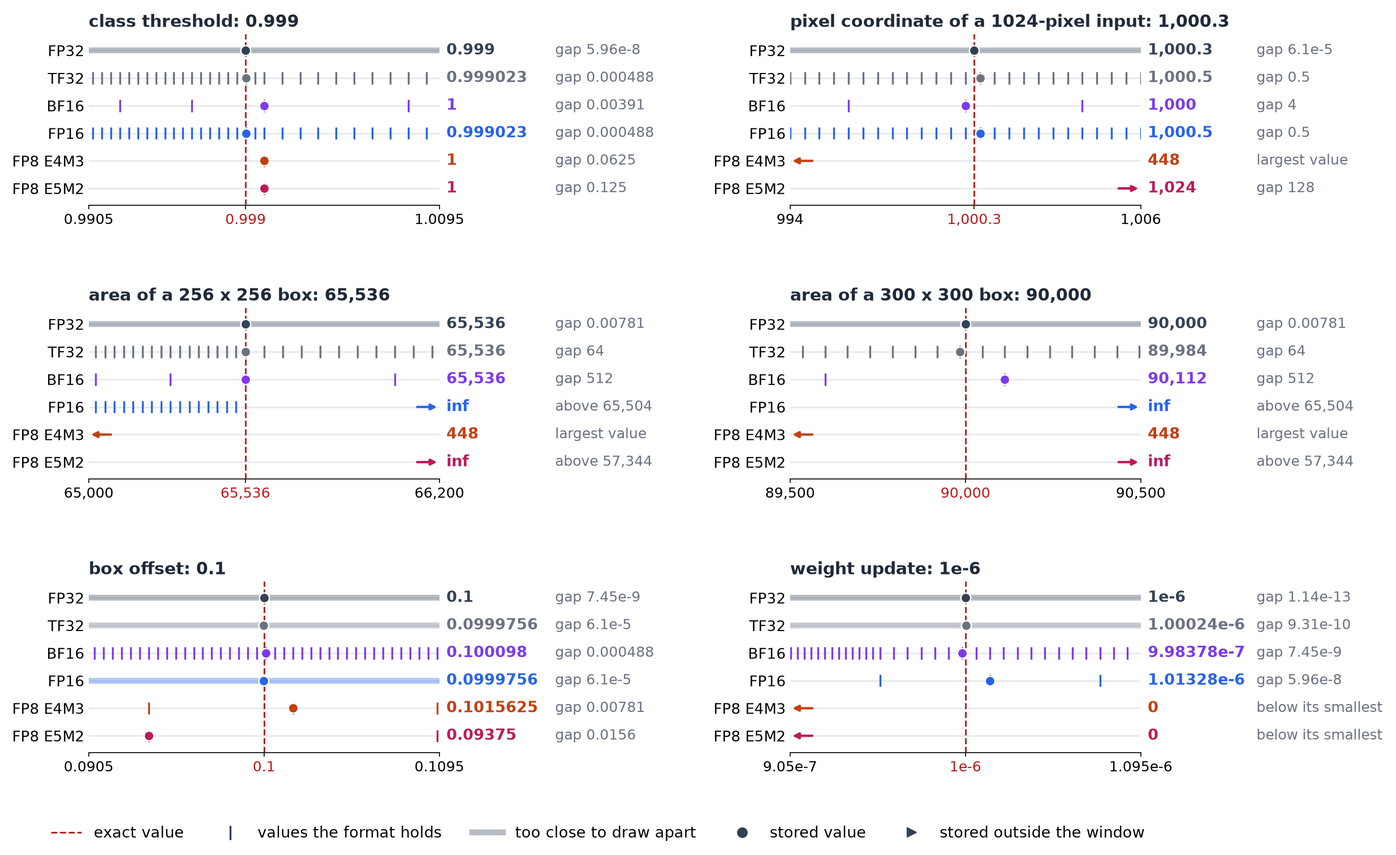
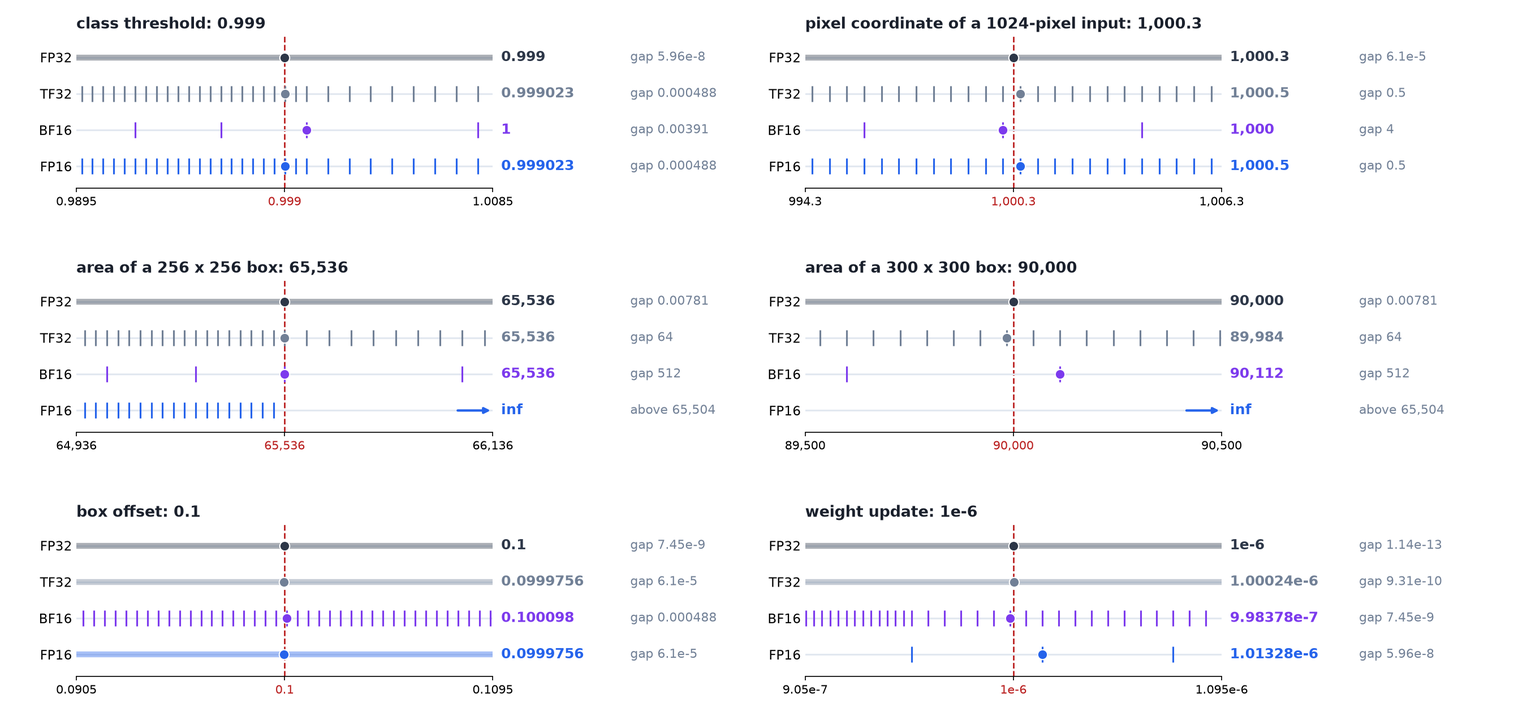
[DOCS] Reduce the README Number Formats subsection to the four formats the user cares about (2026-11-27): FP32, TF32, BF16 and FP16. Only The Same Values In Every Format is kept, its table without the FP8 columns; the floating-point explanation, the format list, the meaning of the numbers, the INT8/
Claude-Session: https://claude.ai/code/session_016uCt2UMaYr5m7swFibr1L4

diff --git a/documentation/presentation/figures/draw_number_formats.py b/documentation/presentation/figures/draw_number_formats.py
@@ -1,0 +1,241 @@
+"""
+Draws the two figures of the "Number Formats" subsection of the README Deployment section, for the four formats the
+repository uses (FP32, TF32, BF16, FP16): README/number_format_examples.png puts six typical values of the repository
+(a class threshold, a pixel coordinate, two box areas, a box offset and a weight update) on the number line of each
+format, and README/number_format_rounding.png draws the gap between neighbouring values of each format from 1e-6 to
+1e7. FP32, BF16 and FP16 values are rounded by PyTorch; TF32 rounds the FP32 mantissa to 10 bits, ties to even. From
+the repository root:
+
+    uv run python -m documentation.presentation.figures.draw_number_formats --output_folder README
+"""
+
+import argparse
+import math
+import matplotlib
+import numpy
+import torch
+
+matplotlib.use("Agg")
+
+import matplotlib.pyplot as plt
+
+from pathlib import Path
+
+from vision_training.utilities.os_utilities import format_path_link
+
+# Every format: its mantissa bits, its smallest normal exponent, its largest value and its colour
+FORMATS = {"FP32": {"mantissa_bits": 23, "minimum_exponent": -126, "largest_value": 3.4028234663852886e38,
+                    "colour": "#2d3748"},
+           "TF32": {"mantissa_bits": 10, "minimum_exponent": -126, "largest_value": 3.4028234663852886e38,
+                    "colour": "#718096"},
+           "BF16": {"mantissa_bits": 7, "minimum_exponent": -126, "largest_value": 3.3895313892515355e38,
+                    "colour": "#7c3aed"},
+           "FP16": {"mantissa_bits": 10, "minimum_exponent": -14, "largest_value": 65504.0, "colour": "#2563eb"}}
+
+# Every example: its title, its exact value and the half width of the window drawn around it
+EXAMPLES = [("class threshold: 0.999", 0.999, 0.0095), ("pixel coordinate of a 1024-pixel input: 1,000.3", 1000.3, 6.0),
+            ("area of a 256 x 256 box: 65,536", 65536.0, 600.0), ("area of a 300 x 300 box: 90,000", 90000.0, 500.0),
+            ("box offset: 0.1", 0.1, 0.0095), ("weight update: 1e-6", 1e-6, 9.5e-8)]
+
+# Above this number of representable values in a window, a lane is drawn as a band instead of ticks
+MAXIMUM_TICKS = 40
+
+
+def round_to_format(value: float, format_name: str) -> float:
+    """
+    Rounds one value of the repository to the nearest value a number format holds, so that the README figures show
+    what a served or trained model really stores (inf above the largest value).
+
+    Args:
+        value (float): The exact value.
+        format_name (str): One of the keys of FORMATS.
+
+    Returns:
+        float: The stored value.
+    """
+    # PyTorch rounds FP32, BF16 and FP16 to nearest, ties to even
+    if format_name in ("FP32", "BF16", "FP16"):
+        dtype = {"FP32": torch.float32, "BF16": torch.bfloat16, "FP16": torch.float16}[format_name]
+        return torch.tensor(data=value, dtype=torch.float64).to(dtype=dtype).item()
+    # TF32 keeps 10 of the 23 FP32 mantissa bits, rounded to nearest, ties to even
+    bits = numpy.array([value], dtype=numpy.float32).view(numpy.uint32)[0].item()
+    dropped_bits = 13
+    remainder, kept = bits & ((1 << dropped_bits) - 1), bits >> dropped_bits
+    halfway = 1 << (dropped_bits - 1)
+    if remainder > halfway or (remainder == halfway and kept & 1):
+        kept += 1
+    return numpy.array([kept << dropped_bits], dtype=numpy.uint32).view(numpy.float32)[0].item()
+
+
+def gap_at(value: float, format_name: str) -> float:
+    """
+    Computes the gap between a value and the next value a format holds, the step that sets how far a stored value can
+    move from the exact one (half of it at most).
+
+    Args:
+        value (float): A positive value.
+        format_name (str): One of the keys of FORMATS.
+
+    Returns:
+        float: The gap at that value, constant below the smallest normal value (subnormals).
+    """
+    specification = FORMATS[format_name]
+    exponent = max(math.floor(math.log2(value)), specification["minimum_exponent"])
+    return 2.0 ** (exponent - specification["mantissa_bits"])
+
+
+def representable_values(lower: float, upper: float, format_name: str) -> list[float]:
+    """
+    Lists the values a format holds between two bounds, to draw them as ticks on the lane of that format.
+
+    Args:
+        lower (float): The left bound of the window, positive.
+        upper (float): The right bound of the window.
+        format_name (str): One of the keys of FORMATS.
+
+    Returns:
+        list[float]: The values held, empty past the largest value, cut after MAXIMUM_TICKS + 1 values.
+    """
+    values, current = [], math.floor(lower / gap_at(value=lower, format_name=format_name)) * gap_at(
+        value=lower, format_name=format_name)
+    # Walk from value to value, the gap doubling at every power of two
+    while current <= upper and len(values) <= MAXIMUM_TICKS:
+        if current >= lower and current <= FORMATS[format_name]["largest_value"]:
+            values.append(current)
+        current += gap_at(value=max(current, lower), format_name=format_name)
+    return values
+
+
+def format_number(value: float) -> str:
+    """
+    Writes a stored value the way the README table does, with up to 6 significant digits and grouped thousands.
+
+    Args:
+        value (float): The stored value.
+
+    Returns:
+        str: The value as text.
+    """
+    if math.isinf(value):
+        return "inf"
+    if abs(value) >= 1000:
+        return f"{value:,.1f}".rstrip("0").rstrip(".")
+    return short_exponent(text=f"{value:.6g}")
+
+
+def short_exponent(text: str) -> str:
+    """
+    Drops the leading zero of a printed exponent ("1e-06" becomes "1e-6"), as the README table writes them.
+
+    Args:
+        text (str): A number printed by Python.
+
+    Returns:
+        str: The same number with a short exponent.
+    """
+    return text.replace("e-0", "e-").replace("e+0", "e+")
+
+
+def draw_examples(output_path: Path) -> None:
+    """
+    Draws the six example values on the number line of every format, one panel per value and one lane per format,
+    with the stored value as a dot, the values the format holds as ticks and the gap written beside it.
+
+    Args:
+        output_path (Path): The PNG file written.
+    """
+    figure, axes_grid = plt.subplots(nrows=3, ncols=2, figsize=(18, 8.4))
+    for axes, (title, exact_value, half_width) in zip(axes_grid.flat, EXAMPLES):
+        lower, upper = exact_value - half_width, exact_value + half_width
+        format_names = list(FORMATS)
+        # One lane per format, FP32 at the top
+        for lane_index, format_name in enumerate(format_names):
+            lane_y, colour = len(format_names) - 1 - lane_index, FORMATS[format_name]["colour"]
+            axes.plot([lower, upper], [lane_y, lane_y], color="#e2e8f0", linewidth=1.5, zorder=1)
+            ticks = representable_values(lower=lower, upper=upper, format_name=format_name)
+            # Too many values to tell apart: a band, otherwise one tick per value held
+            if len(ticks) > MAXIMUM_TICKS:
+                axes.plot([lower, upper], [lane_y, lane_y], color=colour, alpha=0.4, linewidth=5, zorder=2)
+            else:
+                axes.scatter(ticks, [lane_y] * len(ticks), marker="|", s=180, color=colour, zorder=2)
+            stored_value = round_to_format(value=exact_value, format_name=format_name)
+            # The stored value as a dot, or an arrow at the right end when it overflowed to inf
+            if math.isinf(stored_value):
+                axes.annotate("", xy=(upper, lane_y), xytext=(upper - half_width * 0.18, lane_y),
+                              arrowprops={"arrowstyle": "-|>", "color": colour, "linewidth": 2})
+                gap_text = f"above {FORMATS[format_name]['largest_value']:,.0f}"
+            else:
+                axes.scatter([stored_value], [lane_y], s=70, color=colour, edgecolor="white", zorder=3)
+                gap_text = "gap " + short_exponent(text=f"{gap_at(value=exact_value, format_name=format_name):.3g}")
+            # Stored value and gap written right of the lane, placed in axes fractions so panels share one layout
+            axes.text(x=1.02, y=lane_y, s=format_number(value=stored_value), va="center", fontsize=12,
+                      fontweight="bold", color=colour, transform=axes.get_yaxis_transform())
+            axes.text(x=1.33, y=lane_y, s=gap_text, va="center", fontsize=10.5, color="#718096",
+                      transform=axes.get_yaxis_transform())
+        # Exact value as a dashed line, lanes named on the left
+        axes.axvline(x=exact_value, color="#b91c1c", linestyle="--", linewidth=1.3, zorder=0)
+        axes.set_yticks(range(len(format_names)), labels=list(reversed(format_names)), fontsize=11)
+        axes.set_xticks([lower, exact_value, upper], labels=[format_number(value=lower),
+                        format_number(value=exact_value), format_number(value=upper)], fontsize=10)
+        axes.get_xticklabels()[1].set_color("#b91c1c")
+        axes.set_xlim(lower, upper)
+        axes.set_ylim(-0.6, len(format_names) - 0.4)
+        axes.set_title(title, loc="left", fontsize=13, fontweight="bold", color="#1a202c")
+        axes.tick_params(axis="y", length=0)
+        for side in ("top", "right", "left"):
+            axes.spines[side].set_visible(False)
+    figure.subplots_adjust(left=0.05, right=0.8, top=0.95, bottom=0.05, hspace=0.6, wspace=0.75)
+    figure.savefig(output_path, dpi=150, facecolor="white")
+    plt.close(figure)
+
+
+def draw_rounding(output_path: Path) -> None:
+    """
+    Draws the gap between neighbouring values of every format from 1e-6 to 1e7 on log axes, with a cross where FP16
+    overflows and dotted lines at a class threshold, a pixel coordinate and a 256 x 256 box area.
+
+    Args:
+        output_path (Path): The PNG file written.
+    """
+    figure, axes = plt.subplots(figsize=(12, 6.6))
+    magnitudes = numpy.logspace(-6, 7, 4000)
+    for format_name, specification in FORMATS.items():
+        kept = magnitudes[magnitudes <= specification["largest_value"]]
+        gaps = [gap_at(value=magnitude, format_name=format_name) for magnitude in kept]
+        # TF32 dashed under FP16, the two having the same gaps below 65,504
+        line_style, z_order = ("--", 3) if format_name == "TF32" else ("-", 2)
+        axes.step(kept, gaps, where="post", color=specification["colour"], linewidth=2.6, linestyle=line_style, zorder=z_order,
+                  label=format_name + (" (same gaps as FP16, range of FP32)" if format_name == "TF32" else ""))
+    axes.scatter([65504], [gap_at(value=65504.0, format_name="FP16")], marker="X", s=160, color=FORMATS["FP16"]["colour"],
+                 zorder=4)
+    axes.text(x=8e4, y=0.5, s="FP16 overflows\nabove 65,504", fontsize=12, fontweight="bold",
+              color=FORMATS["FP16"]["colour"])
+    # Dotted lines at three values of the repository
+    for magnitude, label in [(0.999, "class threshold\n0.999"), (1024, "pixel coordinate\n1024"),
+                             (65536, "area of a\n256 x 256 box")]:
+        axes.axvline(x=magnitude, color="#4a5568", linestyle=":", linewidth=1.3)
+        axes.text(x=magnitude * 1.15, y=2e-9, s=label, fontsize=11, color="#718096")
+    axes.set_xscale("log")
+    axes.set_yscale("log")
+    axes.set_xlim(1e-6, 1e7)
+    axes.set_ylim(1e-13, 1e5)
+    axes.set_xlabel("magnitude of the value", fontsize=13)
+    axes.set_ylabel("gap to the next representable value", fontsize=13)
+    axes.grid(color="#edf2f7")
+    for side in ("top", "right"):
+        axes.spines[side].set_visible(False)
+    axes.legend(loc="upper center", bbox_to_anchor=(0.5, -0.12), ncol=4, frameon=False, fontsize=11)
+    figure.tight_layout()
+    figure.savefig(output_path, dpi=150, facecolor="white")
+    plt.close(figure)
+
+
+if __name__ == "__main__":
+    # Folder of the two PNG files, README/ for the README
+    parser = argparse.ArgumentParser(description="Draw the number format figures of the README.")
+    parser.add_argument("--output_folder", type=Path, required=True)
+    arguments = parser.parse_args()
+    arguments.output_folder.mkdir(parents=True, exist_ok=True)
+    for name, drawer in [("number_format_examples.png", draw_examples), ("number_format_rounding.png", draw_rounding)]:
+        drawer(output_path=arguments.output_folder / name)
+        print(f"Wrote {format_path_link(path=arguments.output_folder / name)}")

diff --git a/README.md b/README.md
@@ -485,111 +485,35 @@ If you are looking for one word of the Deployment section:
 | TF32 | Tensor Core mode with the range of FP32 and 10 mantissa bits ([Number Formats](#number-formats)) | eager PyTorch convolutions, TensorRT "FP32" |
 | BF16 | 16 bits: the range of FP32 with 7 mantissa bits ([Number Formats](#number-formats)) | the forward passes of the training |
 | FP16 | 16 bits: 5 exponent bits, largest value 65,504, and 10 mantissa bits ([Number Formats](#number-formats)) | `tensorrt_precision = "FP16"`, `torchscript_precision = "FP16"` |
-| FP8 | 8 bits, E4M3 or E5M2 ([Number Formats](#number-formats)) | not implemented |
-| INT8 | 8-bit integers times a scale ([Number Formats](#number-formats)) | not implemented |
-| FP4 | 4 bits, E2M1 ([Number Formats](#number-formats)) | not implemented |
 
 ### Number Formats
-Before you pick the precision of a served model (`tensorrt_precision` of the [export](#export)), this section shows what each number format stores and where the repository uses it. A format packs every number into a fixed number of bits, from 32 (FP32) down to 4 (FP4), and rounds every other number to the nearest value it holds. Fewer bits mean less memory and faster arithmetic, but coarser rounding or a smaller range.
+Before you pick the precision of a served model ([export](#export)), see how FP32, TF32, BF16 and FP16 store typical values of the repository. A format rounds every number to the nearest value it holds: fewer bits mean less memory and faster arithmetic, but coarser rounding or a smaller range.
 
-#### What A Floating-Point Number Is
-To be able to read the tables below, know that a floating-point number has three fields:
-- the **sign**, one bit: 0 positive, 1 negative;
-- the **exponent**, which picks a power of two: it sets the **range**;
-- the **mantissa**, which places the number in equal steps up to the next power of two: it sets the **precision**.
+The table gives the value each format stores (PyTorch 2.14, up to 6 significant digits; TF32 rounds the FP32 mantissa to 10 bits, ties to even):
 
-The value is (-1)^sign x 2^(exponent - bias) x (1 + mantissa / 2^m), with m mantissa bits and a bias (15 in FP16) that allows negative powers. Here the pixel coordinate 1000.3 is decoded from its FP16 bits (0x63D1):
+| Value of the repository | FP32 | TF32 | BF16 | FP16 |
+|---|---|---|---|---|
+| Class threshold 0.999 | 0.999 | 0.999023 | **1** | 0.999023 |
+| Pixel coordinate 1000.3 of a 1024-pixel input | 1,000.3 | 1,000.5 | 1,000 | 1,000.5 |
+| Area of a 256 x 256 box, 65,536 | 65,536 | 65,536 | 65,536 | **inf** |
+| Area of a 300 x 300 box, 90,000 | 90,000 | 89,984 | 90,112 | inf |
+| Box offset 0.1 | 0.1 | 0.0999756 | 0.100098 | 0.0999756 |
+| Weight update 1e-6 | 1e-6 | 1.00024e-6 | 9.98378e-7 | 1.01328e-6 (subnormal) |
+| Weight 0.1 after that update | **0.100001** | 0.0999756 | 0.100098 | 0.0999756 |
 
-<p align="center">
-  <img src="README/number_format_decoding.gif" width="100%" />
-</p>
-
-FP16 has 10 mantissa bits, so it splits 512 to 1024 into 1,024 steps of 0.5, and 1000.3 is stored as 1000.5. This **gap** doubles at every power of two, so the relative error stays the same at any magnitude. The **gap after 1** gives the precision of a format (0.000977 for FP16). A number above the largest value **overflows** to infinity (inf); one below the smallest normal value becomes a **subnormal** (fewer significant bits), then 0.
-
-#### The Formats One By One
-If you are looking for what a name such as BF16 or E4M3 means, each format below gives its bits, its largest value, its gap after 1, where the repository uses it and when to choose it. The bits are drawn to scale:
-
-<p align="center">
-  <img src="README/number_formats.png" width="100%" />
-</p>
-
-- **FP32, single precision** (1 + 8 + 23 bits, largest 3.40 x 10^38, gap after 1 1.19 x 10^-7). The PyTorch default and the reference of the repository: model weights (`MODEL_DTYPE` of `vision_training/models/model_registry.py`), the test evaluation, and the inputs and floating-point outputs of every export (`TYPE_FP32` in `config.pbtxt`). It rounds at the eighth digit: 1000.3 is stored as 1000.29998779. Keep it for anything compared with a threshold.
-- **TF32, TensorFloat-32** (1 + 8 + 10 bits, largest 3.40 x 10^38, gap after 1 0.000977). Not a storage type but a compute mode of the NVIDIA **Tensor Cores** (the GPU units for small matrix products): values stay FP32 in memory, the Tensor Cores read only 10 of the 23 mantissa bits, and sums (the **accumulation**) stay FP32. It gives FP32 range with FP16 precision, with no code change. PyTorch turns it on for convolutions by default (`torch.backends.cudnn.allow_tf32` True, `torch.backends.cuda.matmul.allow_tf32` False), and TensorRT allows it in "FP32" engines. Choose it for speed, not when two runtimes must match: `export_experiment` of `vision_training/deployment/export_model.py` turns both switches off while it exports and checks, then restores them.
-- **BF16, bfloat16** (1 + 8 + 7 bits, largest 3.39 x 10^38, gap after 1 0.0078125). The first 16 bits of an FP32 number: the FP32 range in 2 bytes, with about 2.4 significant digits. Training and validation run under `torch.autocast(..., dtype=torch.bfloat16)` in `run_model_iteration` of `vision_training/trainers/base_trainer.py`: **autocast** computes convolutions and matrix products in BF16 and keeps the weights, softmax and losses in FP32. The test evaluation runs in FP32. 1000.3 becomes 1000 (gap of 4 pixels there). Triton 26.01 cannot serve it through ONNX Runtime ([What Is Exported Today](#what-is-exported-today)). Choose it for training; keep thresholds and post-processing in FP32.
-- **FP16, half precision** (1 + 5 + 10 bits, largest 65,504, gap after 1 0.000977). Eight times finer than BF16, but with a small range: it overflows above 65,504. Two export options use it ([Export](#export)): `tensorrt_precision = "FP16"` lets TensorRT run FP16 kernels where faster (the export check never runs that engine), and `torchscript_precision = "FP16"` traces an FP16 copy into `model.pt`, with normalization, recurrent layers and softmax kept in FP32. 1000.3 becomes 1000.5 and a 256 x 256 box area (65,536) becomes inf. Choose it to serve CLS and M2M (within 0.03 points of eager at 1.9 times the images of TensorRT FP32, [Serving Benchmark Results](#serving-benchmark-results)) once no value inside the model can pass 65,504.
-- **FP8, E4M3 and E5M2** (1 + 4 + 3 bits: largest 448, gap after 1 0.125; 1 + 5 + 2 bits: largest 57,344, gap after 1 0.25). One byte per value; the name counts exponent (E) and mantissa (M) bits. TensorRT supports E4M3 through explicit quantization only ([quantized types](https://docs.nvidia.com/deeplearning/tensorrt/10.x.x/inference-library/work-quantized-types.html)). Without a [scale](#scales-for-int8-and-fp8) values fall out of range: E4M3 clamps 1000.3 to 448, E5M2 rounds it to 1,024, and both store 1e-6 as 0. Not implemented.
-- **INT8, 8-bit integer** (8 bits, -128 to 127). Not floating-point: 256 evenly spaced levels that a [scale](#scales-for-int8-and-fp8) turns into values. Not implemented: TensorRT needs [Q/DQ nodes or a calibration table](#scales-for-int8-and-fp8).
-- **FP4 E2M1** (1 + 2 + 1 bits: 0, 0.5, 1, 1.5, 2, 3, 4 and 6 and their negatives; gap after 1 0.5). Half a byte per value; the 1 petaFLOP of the [DGX Spark](https://www.nvidia.com/en-us/products/workstations/dgx-spark/) is a theoretical FP4 figure with sparsity. Without a scale, 0.1 becomes 0 and 1000.3 becomes 6. Not implemented.
-
-Block floating point (BFP, the MX formats, one exponent shared by a block of values) is not BF16 and is not used here.
-
-#### The Same Values In Every Format
-Suppose some typical values of the repository are stored in each format: PyTorch 2.14 holds them as follows (up to 6 significant digits; TF32 rounds the FP32 mantissa to 10 bits, ties to even).
-
-| Value of the repository | FP32 | TF32 | BF16 | FP16 | FP8 E4M3 | FP8 E5M2 |
-|---|---|---|---|---|---|---|
-| Class threshold 0.999 | 0.999 | 0.999023 | **1** | 0.999023 | 1 | 1 |
-| Pixel coordinate 1000.3 of a 1024-pixel input | 1,000.3 | 1,000.5 | 1,000 | 1,000.5 | 448 | 1,024 |
-| Area of a 256 x 256 box, 65,536 | 65,536 | 65,536 | 65,536 | **inf** | 448 | inf |
-| Area of a 300 x 300 box, 90,000 | 90,000 | 89,984 | 90,112 | inf | 448 | inf |
-| Box offset 0.1 | 0.1 | 0.0999756 | 0.100098 | 0.0999756 | 0.1015625 | 0.09375 |
-| Weight update 1e-6 | 1e-6 | 1.00024e-6 | 9.98378e-7 | 1.01328e-6 (subnormal) | 0 | 0 |
-| Weight 0.1 after that update | **0.100001** | 0.0999756 | 0.100098 | 0.0999756 | 0.1015625 | 0.09375 |
-
-The same values on the number line of every format:
+The figure below puts the same values on the number line of each format:
 
 <p align="center">
   <img src="README/number_format_examples.png" width="100%" />
 </p>
-<p align="center"><em>One lane per format; the dot is the stored value. Arrows mark values stored outside the window: 448 for E4M3 (no infinity), inf above the largest value, 0 below the smallest.</em></p>
+<p align="center"><em>One lane per format: the ticks are the values it holds, the dot the stored value, and an arrow a value stored as inf (FP16 above 65,504).</em></p>
 
-The gap of each format from 10^-6 to 10^7:
+The figure below shows how far apart neighbouring values are in each format, from 10^-6 to 10^7:
 
 <p align="center">
   <img src="README/number_format_rounding.png" width="100%" />
 </p>
-<p align="center"><em>Gap between neighbouring values: a value moves by up to half of it, and the format overflows past the cross. Dotted lines: a class threshold, a pixel coordinate of a 1024-pixel input and a 256 x 256 box area.</em></p>
-
-#### What These Numbers Mean
-Each time a model moves to a reduced precision, check these cases:
-- **BF16 turns the threshold 0.999 into 1.** Probabilities 0.9985 and 0.9995 both read 1, so thresholds (such as the logit temperature of the [export](#export)) and post-processing stay in FP32.
-- **FP16 makes a 256 x 256 box area infinite.** The NMS exported in the detector overflowed FP16 twice: shifted box groups passed 65,504 (run_9 lost 7.88 points of mAP@0.5 with TensorRT FP16), and DIoU-NMS areas in pixels became inf. One NonMaxSuppression batch per group (`suppress_stacked_groups` of `vision_training/models/detection/postprocessing.py`) and boxes in fractions of the image fixed both: the FP16 engine now reads +0.21 points against eager ([Serving Benchmark Results](#serving-benchmark-results)). Every sum, area or offset inside an FP16 model must stay below 65,504.
-- **TF32 moves detection scores by about 1e-3.** On eight DET test images, TF32 moved scores by up to 9.8e-4 and boxes by up to 0.15 pixel, ten times what the export accepts (`comparison_tolerances` of `vision_training/deployment/export_specifications.py`). This is why `export_experiment` turns TF32 off and compares against exact FP32.
-- **A weight update of 1e-6 vanishes in a 16-bit weight.** Added to 0.1, it leaves BF16 and FP16 unchanged while FP32 holds 0.100001: this is why autocast keeps the weights in FP32.
-- **INT8 and FP8 need a scale.** Stored as is, 0.1 becomes 0.1016 in E4M3 and 0 in INT8; with one scale for a tensor between -6 and 6, INT8 reads it back as 0.0945 ([Scales For INT8 And FP8](#scales-for-int8-and-fp8)).
-
-#### Scales For INT8 And FP8
-Should a model run in INT8 or FP8, each tensor needs a **scale** that multiplies its stored values back into real values:
-- **Scale.** For values between -6 and 6, the scale 6 / 127 = 0.0472 maps 6 to 127: 0.1 is stored as 2 and read back as 0.0945. Every value moves by at most half the scale. TensorRT rounds to nearest, ties to even, and clips to -128 and 127.
-- **Zero point.** An offset so that a range not centred on 0 (such as 0 to 6 after a ReLU) uses all 256 levels. TensorRT is symmetric and uses a scale only.
-- **Per tensor or per channel.** Activations get one scale per tensor; weights one per output channel, as TensorRT recommends. In the README classifier (`backbone.convolution_blocks.1`, after batch normalization folding) channels range from 0.285 to 2.73: one scale for the tensor leaves the narrowest channel 13 of 127 levels, one per channel gives every channel all 127.
-- **Calibration.** Choosing activation scales from data: TensorRT runs about 500 representative images and records each tensor's range. Deprecated since TensorRT 10.1.
-- **Q/DQ nodes.** QuantizeLinear and DequantizeLinear nodes in the ONNX graph mark where a tensor becomes INT8 or FP8 (explicit quantization), the only path to FP8 and FP4.
-
-None of this is implemented: `tensorrt_precision` accepts only "FP32", "FP16" and None, and the export check never runs a TensorRT engine ([What Is Exported Today](#what-is-exported-today)).
-
-#### Summary Of The Formats
-In case you need the facts of one format again (computed by PyTorch; TF32 and FP4 from their bit layouts):
-
-| Format | Full name | Bits (sign + exponent + mantissa) | Largest value | Gap after 1 | Used in this repository for |
-|---|---|---|---|---|---|
-| FP32 | single precision (IEEE 754 binary32) | 1 + 8 + 23 | 3.40 x 10^38 | 1.19 x 10^-7 | weights, test evaluation, post-processing, export inputs and floating-point outputs |
-| TF32 | TensorFloat-32 | 1 + 8 + 10, read from FP32 values | 3.40 x 10^38 | 0.000977 | eager convolutions (PyTorch default), TensorRT "FP32" engines; off in the export |
-| BF16 | bfloat16, "brain floating point" | 1 + 8 + 7 | 3.39 x 10^38 | 0.0078125 | training and validation forward passes (autocast of `base_trainer.py`) |
-| FP16 | half precision (IEEE 754 binary16) | 1 + 5 + 10 | 65,504 | 0.000977 | `tensorrt_precision = "FP16"`, served without check |
-| FP8 E4M3 | 8-bit floating point, 4 exponent bits, 3 mantissa bits | 1 + 4 + 3 | 448 | 0.125 | not implemented |
-| FP8 E5M2 | 8-bit floating point, 5 exponent bits, 2 mantissa bits | 1 + 5 + 2 | 57,344 | 0.25 | not implemented |
-| INT8 | 8-bit integer | 8 (integer) | 127 times the scale | the scale | not implemented |
-| FP4 E2M1 | 4-bit floating point, 2 exponent bits, 1 mantissa bit | 1 + 2 + 1 | 6 | 0.5 | not implemented |
-
-#### Weight Memory And Bandwidth
-For a served model to read less memory per request, a reduced precision also shrinks its weights and activations. The weights of four saved runs (weights and batch normalization statistics):
-
-<p align="center">
-  <img src="README/model_weight_sizes.png" width="100%" />
-</p>
-
-The DGX Spark GPU has 273 GB/s of memory bandwidth shared with the CPU ([specifications](https://www.nvidia.com/en-us/products/workstations/dgx-spark/)), so halving the bytes halves the traffic of a memory-bound layer. TensorRT FP16 serves 1.9 times the images of TensorRT FP32 at batch 16 on CLS and M2M; DET serves 189 images per second with both ([Serving Benchmark Results](#serving-benchmark-results)).
+<p align="center"><em>A stored value moves by up to half the gap. FP16 overflows past the cross. Dotted lines: a class threshold, a pixel coordinate of a 1024-pixel input and a 256 x 256 box area.</em></p>
 
 ### Export
 Once a run is ready to be served, `vision_training/deployment/export_model.py` writes it to the Triton model repository as TorchScript and ONNX, with a Triton configuration per model. It checks every format against the eager model and replaces the served models only when all match. Set in its main block:
